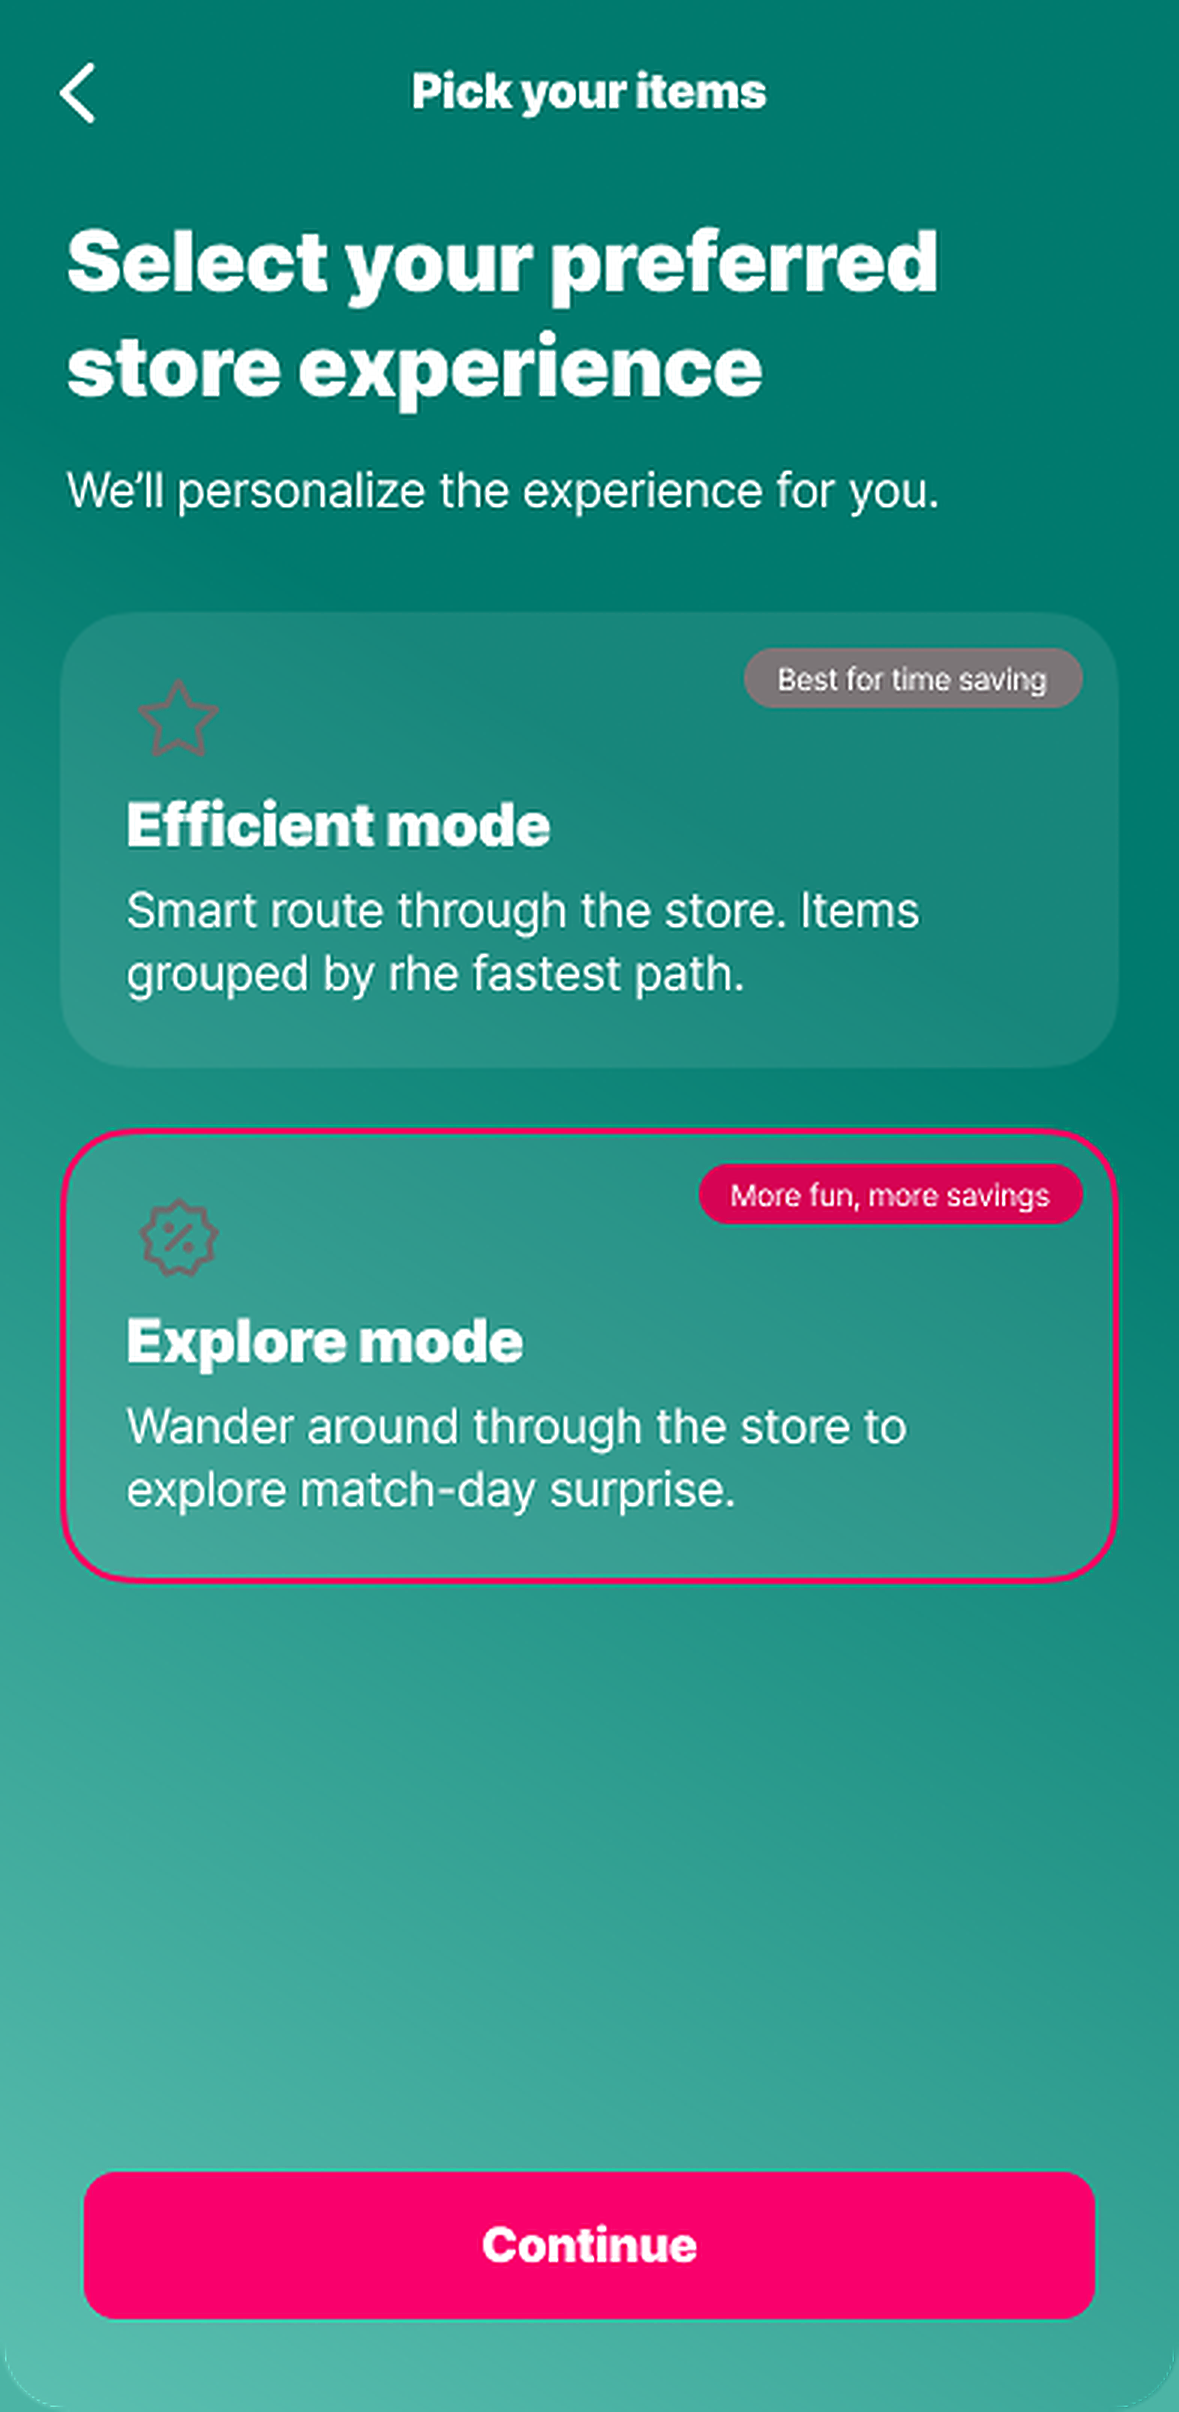
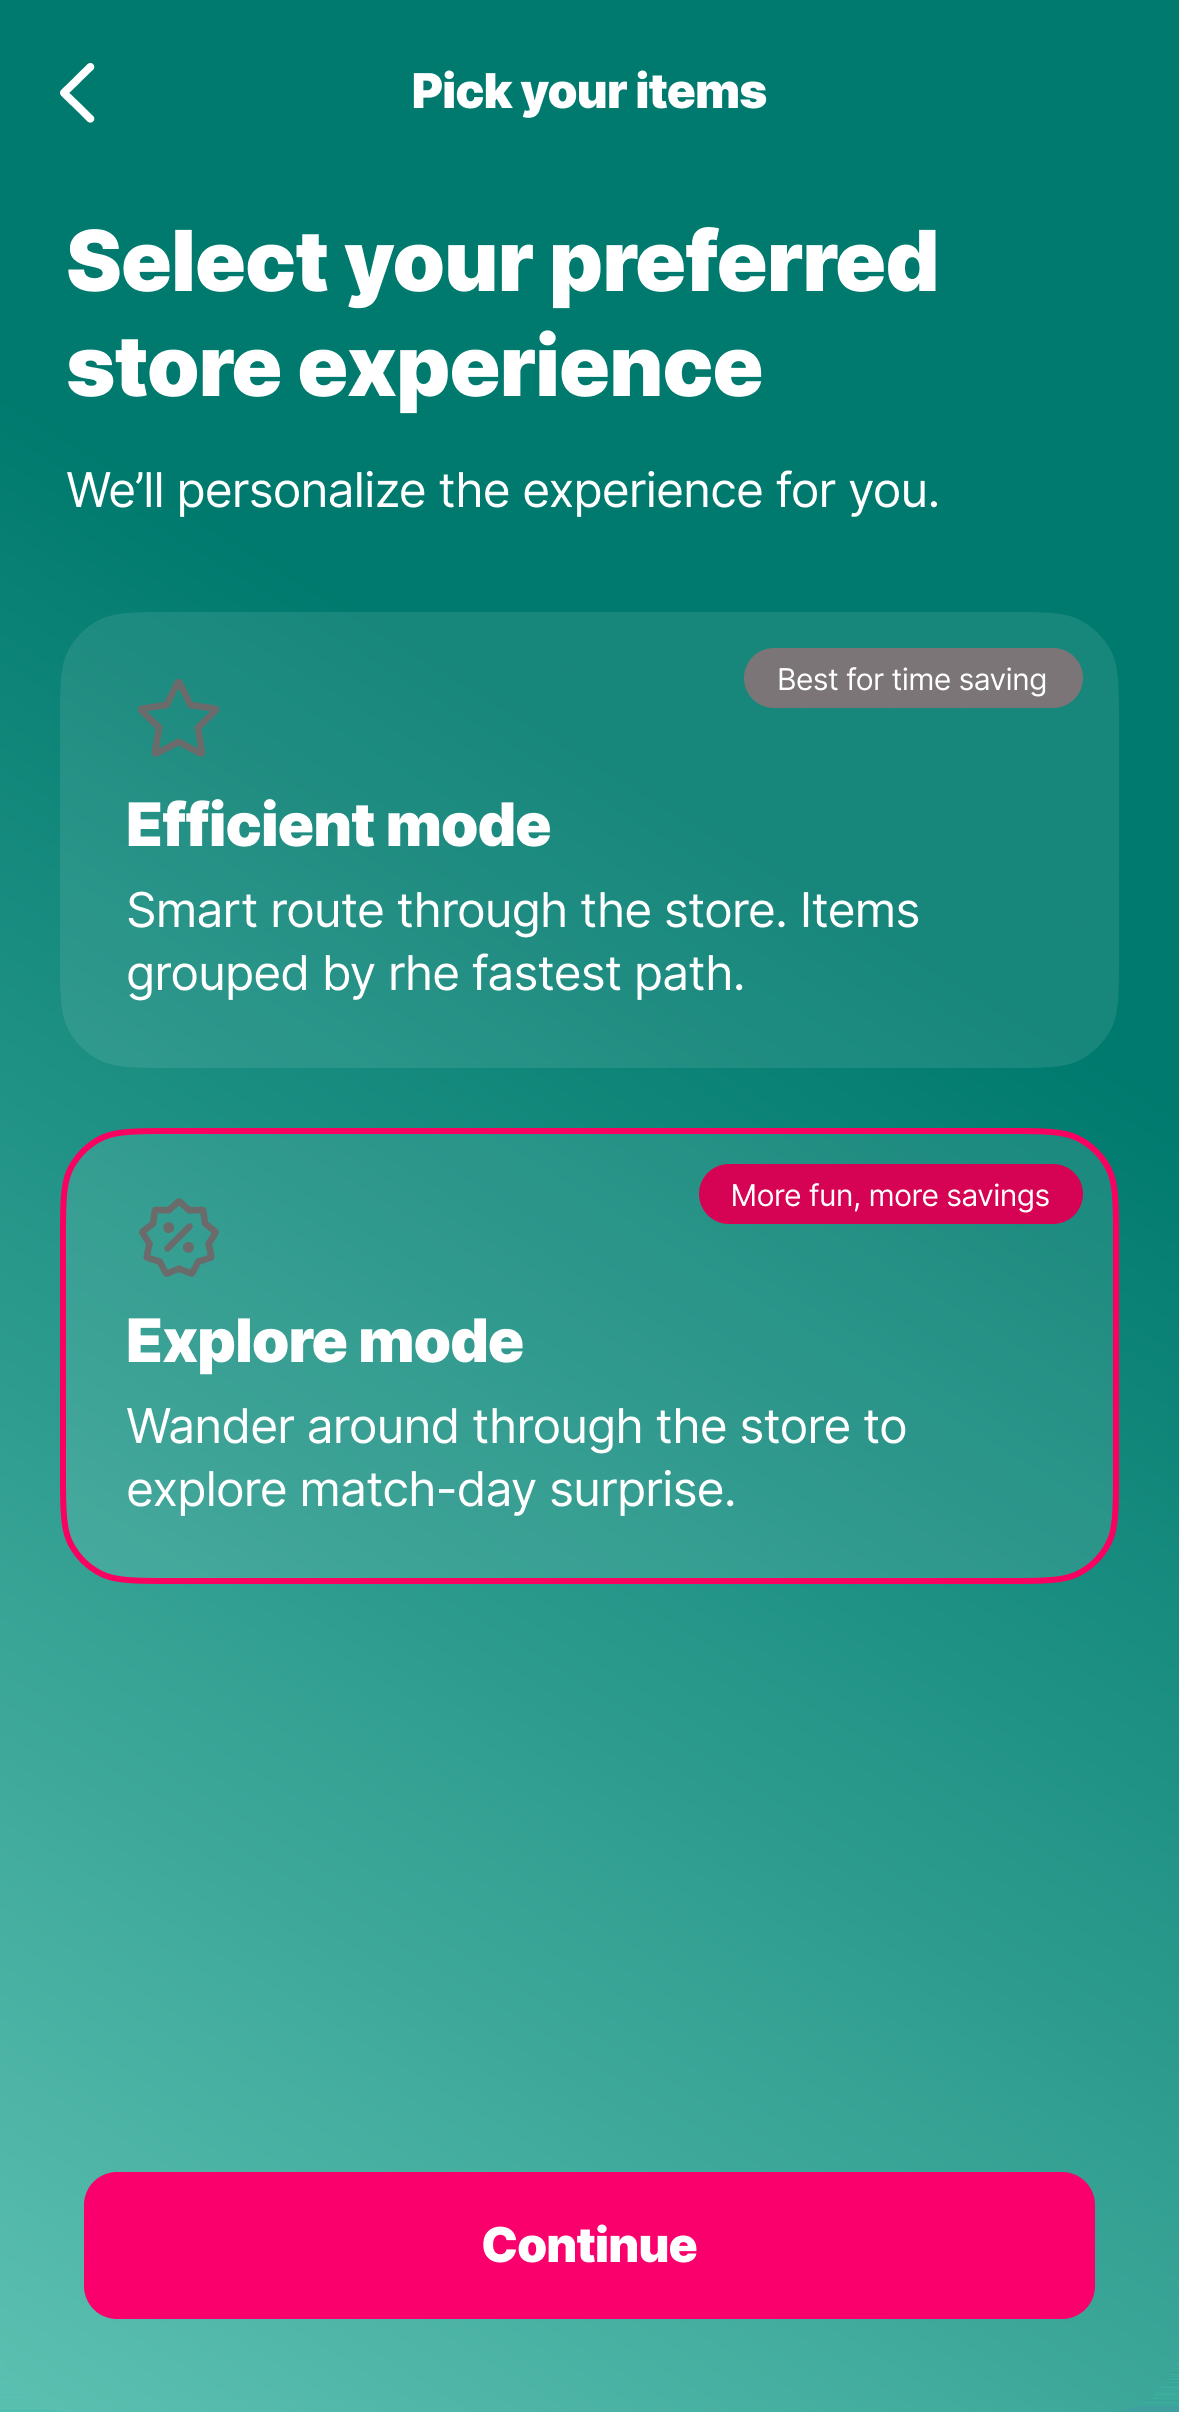
Replace PWA screenshots with true Figma exports

diff --git a/scripts/crop-pwa-export.py b/scripts/crop-pwa-export.py
@@ -1,0 +1,77 @@
+#!/usr/bin/env python3
+import sys
+from pathlib import Path
+
+from PIL import Image
+
+
+def composite_pixel(pixel, background):
+    red, green, blue, alpha = pixel
+    if alpha >= 255:
+        return red, green, blue
+    if alpha <= 0:
+        return background
+
+    opacity = alpha / 255
+    return tuple(round(channel * opacity + bg * (1 - opacity)) for channel, bg in zip((red, green, blue), background))
+
+
+def first_opaque_in_row(pixels, width, y, reverse=False):
+    values = range(width - 1, -1, -1) if reverse else range(width)
+    for x in values:
+        red, green, blue, alpha = pixels[x, y]
+        if alpha > 0:
+            return red, green, blue
+    return None
+
+
+def nearest_row_color(pixels, width, height, y, left_side):
+    for offset in range(height):
+        for next_y in (y - offset, y + offset):
+            if 0 <= next_y < height:
+                color = first_opaque_in_row(pixels, width, next_y, reverse=not left_side)
+                if color:
+                    return color
+    return 255, 255, 255
+
+
+def flatten_transparent_edges(image):
+    pixels = image.load()
+    width, height = image.size
+    output = Image.new("RGB", (width, height), (255, 255, 255))
+    out = output.load()
+
+    for y in range(height):
+        left_color = first_opaque_in_row(pixels, width, y, reverse=False)
+        right_color = first_opaque_in_row(pixels, width, y, reverse=True)
+
+        if left_color is None:
+            left_color = nearest_row_color(pixels, width, height, y, left_side=True)
+        if right_color is None:
+            right_color = nearest_row_color(pixels, width, height, y, left_side=False)
+
+        for x in range(width):
+            background = left_color if x < width / 2 else right_color
+            out[x, y] = composite_pixel(pixels[x, y], background)
+
+    return output
+
+
+def main():
+    if len(sys.argv) != 7:
+        raise SystemExit("usage: crop-pwa-export.py <source> <target> <crop-top> <width> <height> <scale>")
+
+    source = Path(sys.argv[1])
+    target = Path(sys.argv[2])
+    crop_top = int(sys.argv[3])
+    width = int(sys.argv[4])
+    height = int(sys.argv[5])
+
+    image = Image.open(source).convert("RGBA")
+    cropped = image.crop((0, crop_top, width, crop_top + height))
+    flattened = flatten_transparent_edges(cropped)
+    flattened.save(target, format="PNG", optimize=True)
+
+
+if __name__ == "__main__":
+    main()
